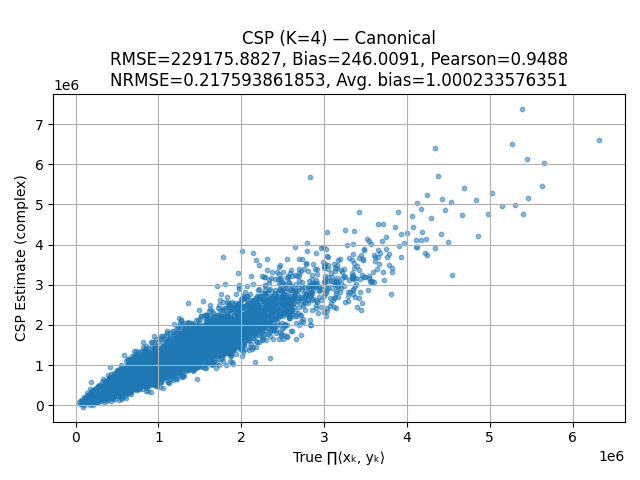
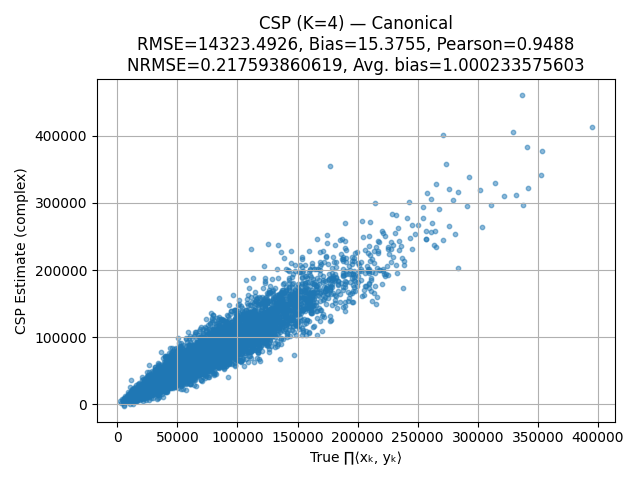
Update CSP code example

diff --git a/docs/CSP/CSP.py b/docs/CSP/CSP.py
@@ -11,22 +11,27 @@ from scipy.stats import pearsonr
 #   d_k = 32
 #   d_prime = 2048
 #   n_trials = 10000
+#   xy_correlation = 0.5
 #   torch.manual_seed(42)
 #
 # Should give the following result:
 #   CSP (K=4) — Canonical
-#   RMSE=229175.88265508565, Bias=246.0090829265084, Pearson=0.9487576102286971
-#   NRMSE=0.21759386185273363, Avg. bias=1.0002335763509873
+#   RMSE=14323.492584319598, Bias=15.375518473648606, Pearson=0.9487576105841762
+#   NRMSE=0.21759386061901784, Avg. bias=1.0002335756034362
+#
+# Note: canonical CSP produces high-variance estimates when inputs are weakly correlated,
+#       due to multiplicative amplification of unaligned spectral noise.
 #
 
 K = 4
 d_k = 32
 d_prime = 2048
 n_trials = 10000
+xy_correlation = 0.5
 torch.manual_seed(42)
 
 xs = [torch.randn(n_trials, d_k) for _ in range(K)]
-ys = [x + torch.randn_like(x) for x in xs]
+ys = [torch.lerp(torch.randn_like(x), x, xy_correlation) for x in xs]
 
 def generate_hash_and_sign(d_k, d_prime):
     h = torch.randint(0, d_prime, (d_k,))
